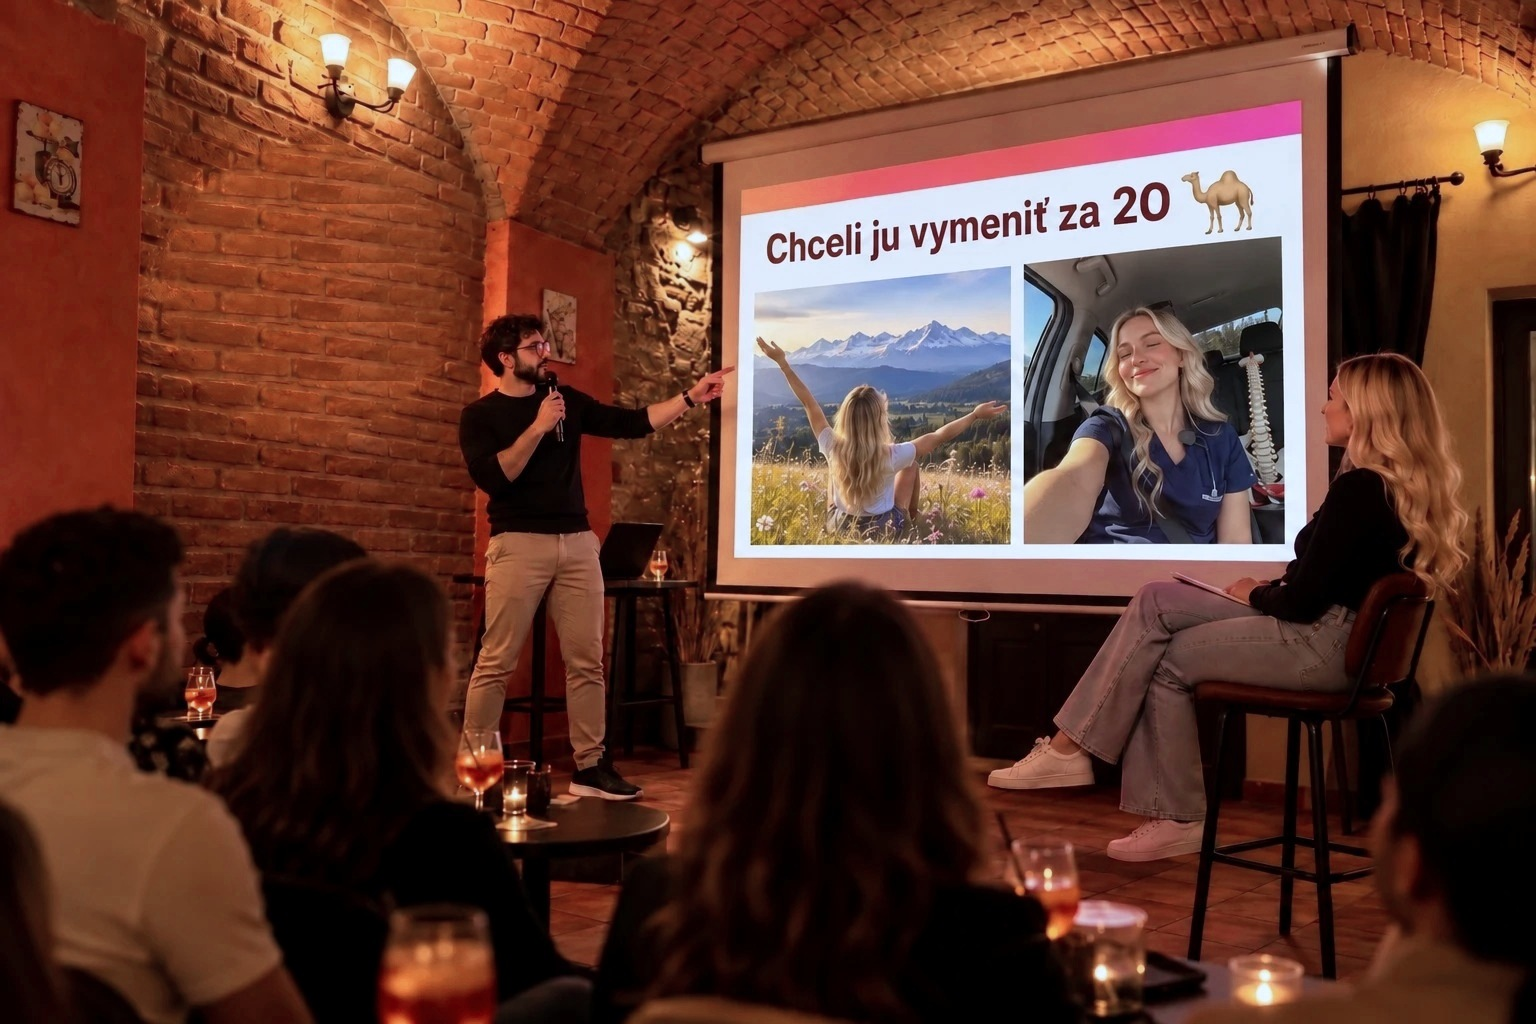
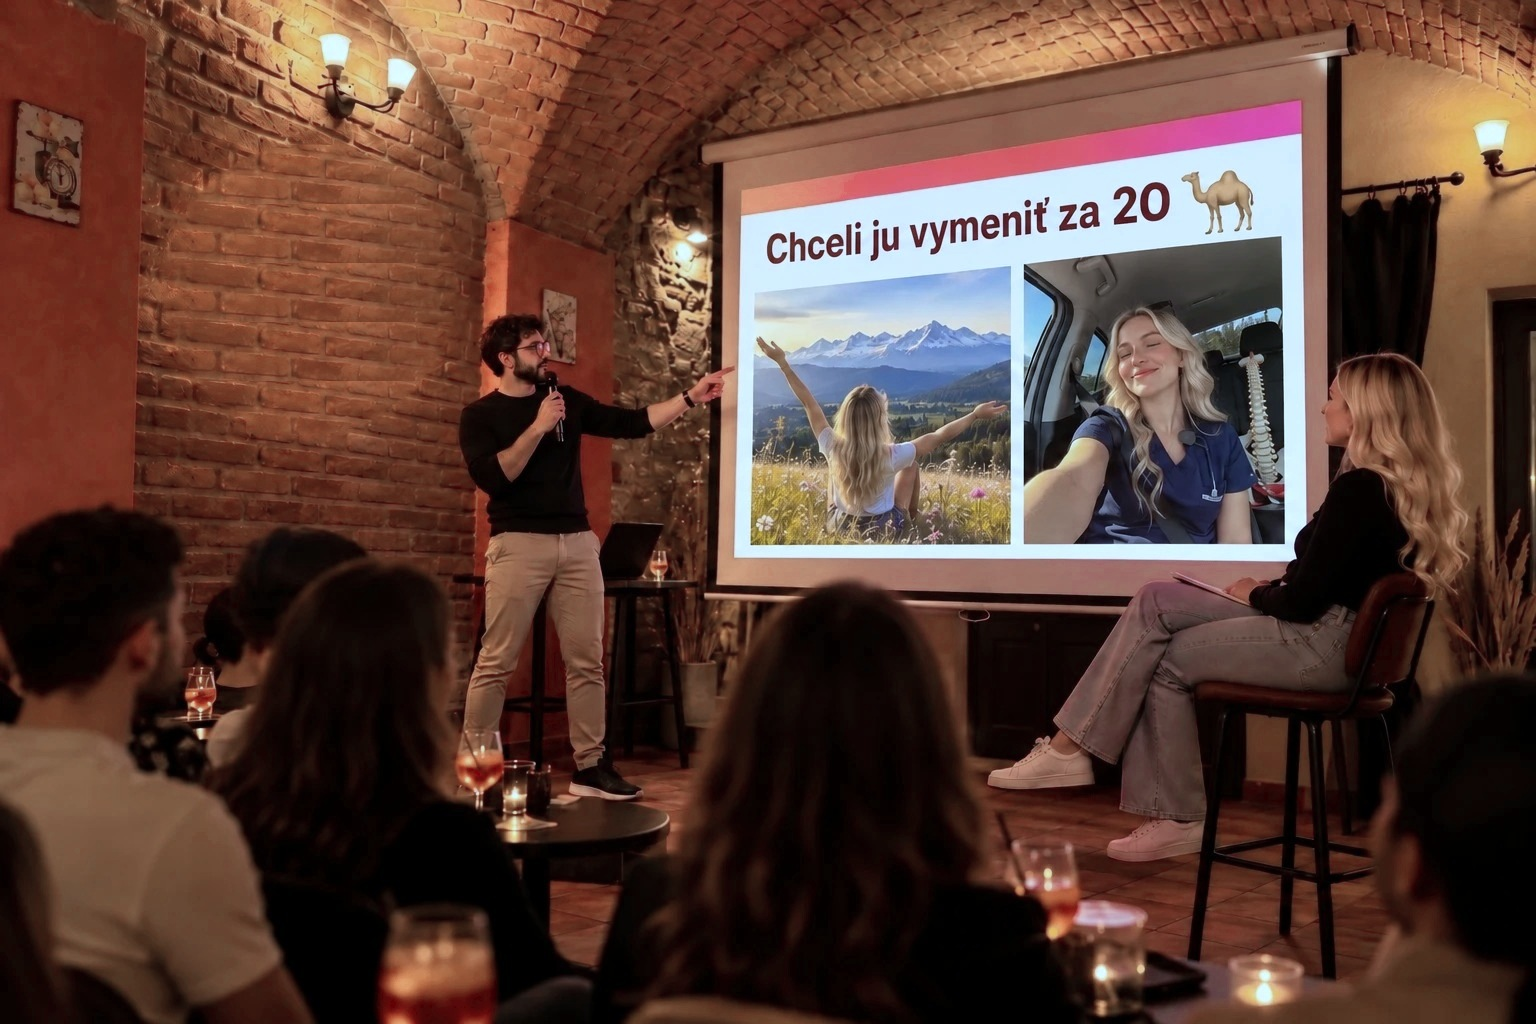
Úvod: fotka z pódia ešte menej oranžová

diff --git a/index.html b/index.html
@@ -73,7 +73,7 @@
         </div>
         <div class="hs-media">
           <div class="hero-photo">
-            <img fetchpriority="high" class="hero-img" src="img/hero-podium-aperio.webp?v=3" srcset="img/hero-podium-aperio-800.webp?v=3 800w, img/hero-podium-aperio.webp?v=3 1600w" sizes="(max-width: 760px) 100vw, 50vw" alt="Kamoš na pódiu v APERIO Café &amp; Bar predstavuje svoju single kamarátku, za nimi plátno s jej fotkami" width="1600" height="1067">
+            <img fetchpriority="high" class="hero-img" src="img/hero-podium-aperio.webp?v=4" srcset="img/hero-podium-aperio-800.webp?v=4 800w, img/hero-podium-aperio.webp?v=4 1600w" sizes="(max-width: 760px) 100vw, 50vw" alt="Kamoš na pódiu v APERIO Café &amp; Bar predstavuje svoju single kamarátku, za nimi plátno s jej fotkami" width="1600" height="1067">
           </div>
         </div>
       </div>
